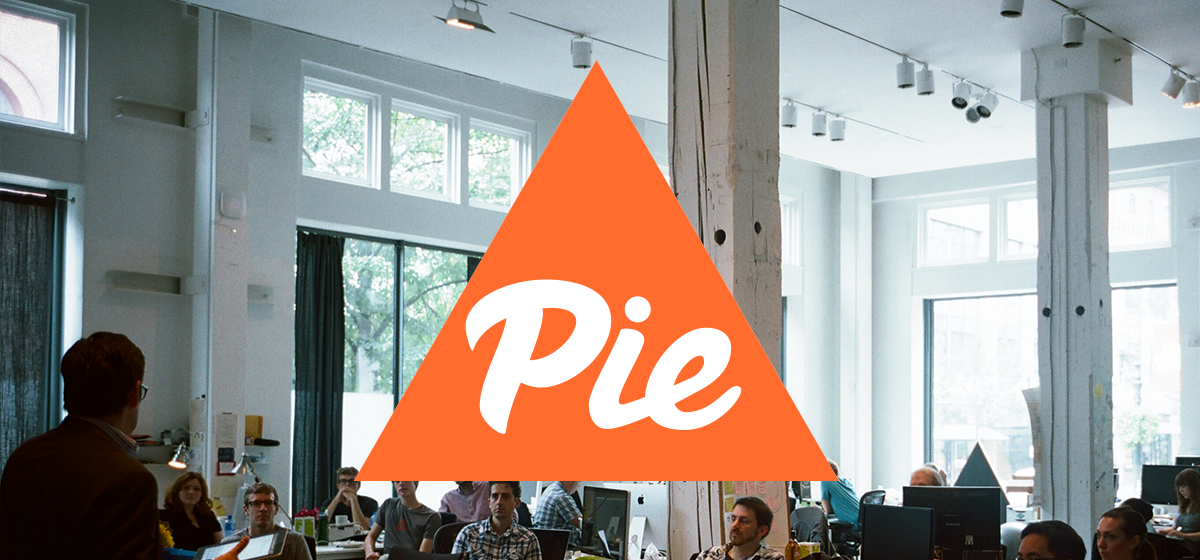
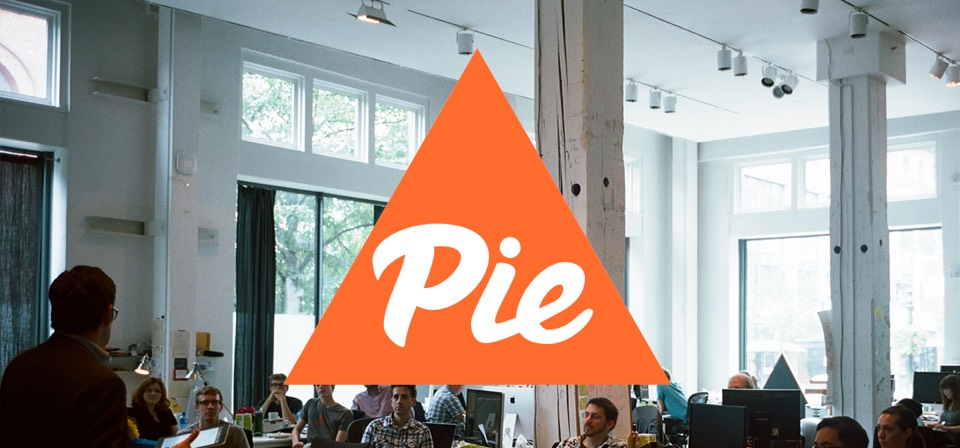
Makes pictures smaller for faster load time

Changed region(s): [[0.3125, 0.8438, 0.5938, 0.875], [0.6562, 0.8438, 0.6875, 0.875]]

diff --git a/about-orchestrate.html b/about-orchestrate.html
@@ -55,7 +55,7 @@
         </div>
 
         <div class="about-picture">
-          <img src="./Pictures2/orchestrate.JPG" alt="Alyssa_Carrizales_Orchestrate">
+          <img src="./Pictures2/orchestrate.jpg" alt="Alyssa_Carrizales_Orchestrate">
         </div>
 
         <div class="about-info" id="orchestrate">

diff --git a/about-figs.html b/about-figs.html
@@ -55,7 +55,7 @@
         </div>
 
         <div class="about-picture">
-          <img src="./Pictures2/figs.JPG" alt="Alyssa_Carrizales_FIGS">
+          <img src="./Pictures2/figs.jpg" alt="Alyssa_Carrizales_FIGS">
         </div>
 
         <div class="about-info" id="figs">

diff --git a/about-pie.html b/about-pie.html
@@ -55,7 +55,7 @@
         </div>
 
         <div class="about-picture">
-          <img src="Pictures/pie.JPG" alt="Alyssa_Carrizales">
+          <img src="Pictures/pie.jpg" alt="Alyssa_Carrizales">
         </div>
 
         <div class="about-info" id="pie">

diff --git a/causes.html b/causes.html
@@ -12,6 +12,7 @@
     <link href="https://fonts.googleapis.com/css?family=Yanone+Kaffeesatz:200,300,400,700" rel="stylesheet">
 
     <meta name="viewport" content="width=device-width,initial-scale=1.0">
+    
   </head>
 
   <body>

diff --git a/contact.html b/contact.html
@@ -12,6 +12,7 @@
     <link href="https://fonts.googleapis.com/css?family=Yanone+Kaffeesatz:200,300,400,700" rel="stylesheet">
 
     <meta name="viewport" content="width=device-width,initial-scale=1.0">
+    
   </head>
 
   <body>
